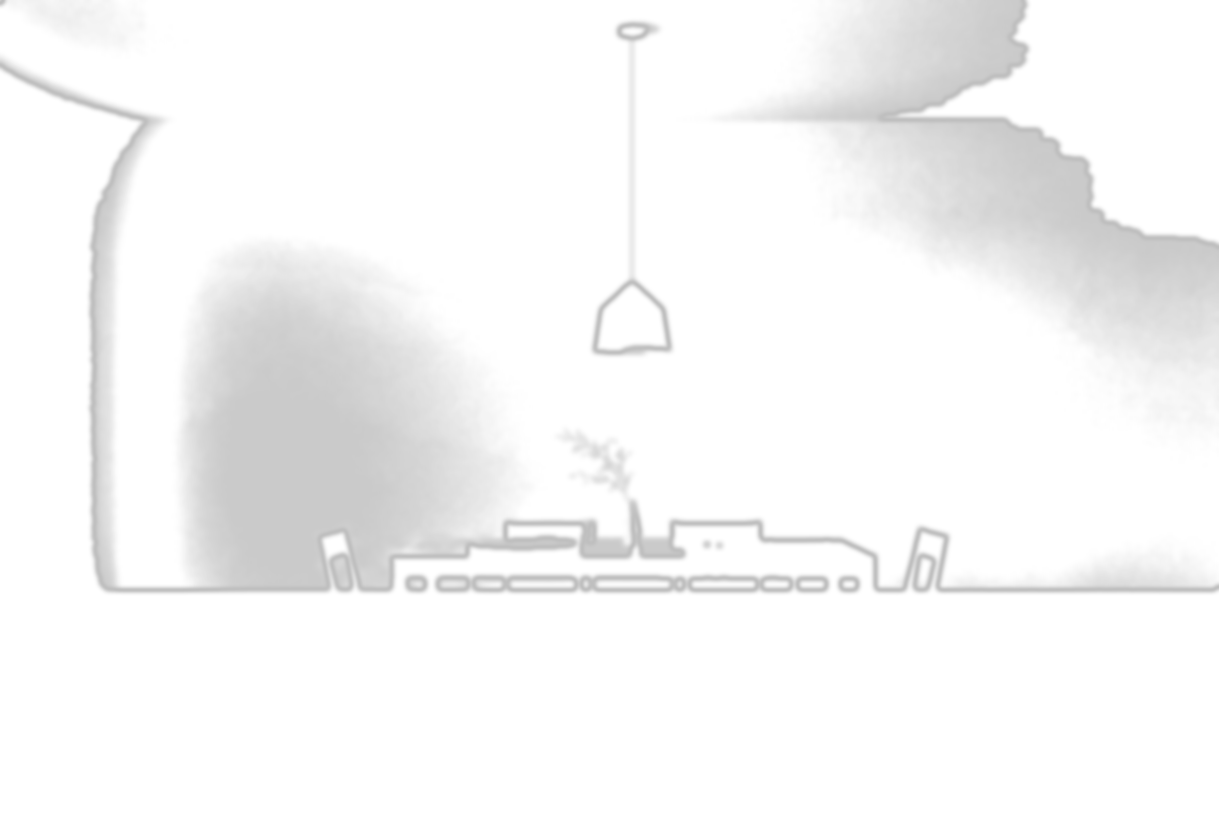
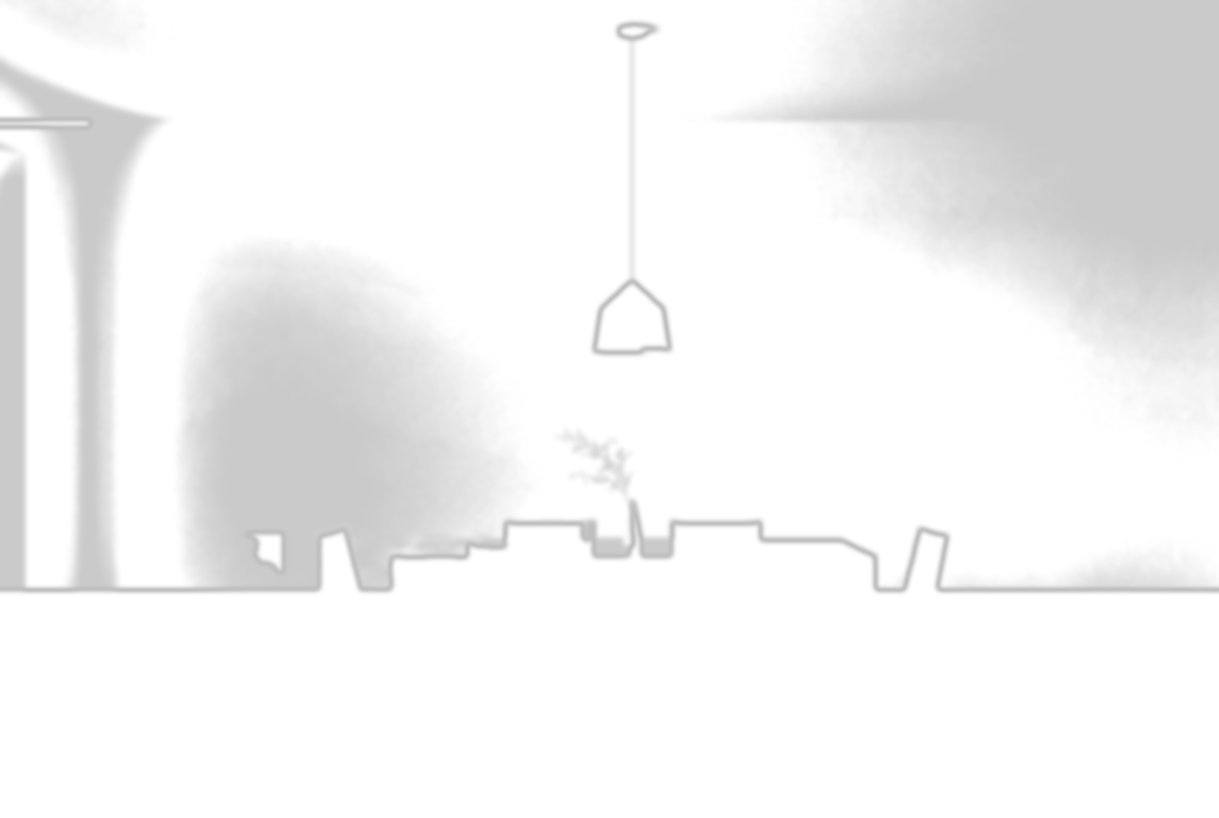
Visualiser masks: per-gap + edge sweep (room #1 verified)
Reworked the horizontal sweep so it can finally reach wall strips at
the image edges without bleeding across furniture:

- Per-gap sweep replaces the old leftmost→rightmost row fill. Each
  row now walks every gap between consecutive wall pixels; a gap is
  only filled when it's short (< 12% of image width — sofas/tables
  span much more) AND every pixel in it is loosely wall-coloured.
  Sofa cushion bleed gone; small bright wall patches still fill.

- Edge sweep extends the leftmost/rightmost wall pixel of each row
  out to the image edge while pixels stay wall-coloured. Catches
  wall strips beside windows and at the photo edges.

- Vertical edge sweep extends the topmost/bottommost wall pixel of
  each column toward the band limits, again gated by wall-colour.
  Catches the thin strip below window frames and the strip between
  ceiling and the top of the wall.

- Edge sweep uses a more permissive distance threshold (2.2× dist)
  than the per-gap sweep (1.5× dist) because shadows from frames
  and floor bounce darken edge pixels.

Room #1 (Modern living) tuned and verified: dist 54→60, floor
0.75→0.82. Wall now paints cleanly from ceiling to floor including
the strip above the window, beside the window, below the window and
the right corner near the fiddle-leaf plant. Sofa, lamp, plant and
window view all untouched.

Other rooms inherit the sweep changes for free; will audit them in
the next round.

diff --git a/images/rooms/_make_wall_masks.py b/images/rooms/_make_wall_masks.py
@@ -17,7 +17,7 @@ ROOMS_DIR = os.path.dirname(os.path.abspath(__file__))
 # curtains / tables / similar-coloured furniture) and rely on
 # binary_fill_holes downstream to plug interior holes. Tighter than v3.
 ROOMS = {
-    'room-living-modern':  dict(seed=(0.50, 0.20), dist=54, floor=0.75, top=0.00),
+    'room-living-modern':  dict(seed=(0.50, 0.20), dist=60, floor=0.82, top=0.00),
     'room-living-warm':    dict(seed=(0.55, 0.15), dist=58, floor=0.55, top=0.00),
     'room-bedroom-soft':   dict(seed=(0.30, 0.18), dist=95, floor=0.55, top=0.00),
     'room-bedroom-suite':  dict(seed=(0.70, 0.18), dist=70, floor=0.62, top=0.00),
@@ -97,28 +97,68 @@ def make_mask(im, p, slug):
             continue
         keep[hole_pixels] = True
 
-    # Horizontal sweep: above the floor line, plug gaps that are
-    # bracketed by wall pixels left-and-right in the same row — but
-    # ONLY for pixels that are at least loosely wall-coloured. This
-    # picks up sunlit/shadowed central wall patches (still close to
-    # the seed colour, just brighter/darker) without bleeding onto
-    # sofas, tables and lamps (which sit far from the seed colour).
-    loose_dist = p['dist'] * 1.8
+    # Per-gap horizontal sweep: walk each row above the floor line,
+    # and for every gap BETWEEN two consecutive wall pixels in that
+    # row, fill it only if (a) the gap is short (< 12% of image
+    # width — sofas/tables tend to span much more) and (b) every
+    # pixel in the gap is loosely wall-coloured. This catches
+    # sunlit/shadowed mid-wall patches and small fixtures while
+    # refusing to paint across furniture.
+    loose_dist = p['dist'] * 1.5
+    edge_dist  = p['dist'] * 2.2   # more permissive at the image edges
+                                   # (shadows from frames, floor bounce)
+    max_run = int(0.12 * w)
     for y in range(top_y, floor_y):
         row = keep[y]
         if not row.any(): continue
         xs = np.where(row)[0]
+        # Edge sweep — extend the leftmost wall pixel out to the image
+        # edge while pixels stay wall-coloured. Same on the right edge.
+        # Catches wall strips at the edge of the photo (above / below /
+        # beside windows) where the per-gap sweep can't help.
+        left = xs[0]
+        if left > 0:
+            run = dist[y, :left] <= edge_dist
+            i = left - 1
+            while i >= 0 and run[i]:
+                keep[y, i] = True
+                i -= 1
+        right = xs[-1]
+        if right < w - 1:
+            run = dist[y, right + 1:] <= edge_dist
+            i = 0
+            while i < len(run) and run[i]:
+                keep[y, right + 1 + i] = True
+                i += 1
         if len(xs) < 2: continue
-        left, right = xs[0], xs[-1]
-        coverage = row[left:right+1].sum() / (right - left + 1)
-        if coverage < 0.25: continue
-        # Within the span, fill only currently-empty pixels whose
-        # colour-distance from the seed is within the loose threshold.
-        span = slice(left, right + 1)
-        gap = ~row[span]
-        if not gap.any(): continue
-        wall_like = dist[y, span] <= loose_dist
-        keep[y, span] = row[span] | (gap & wall_like)
+        for i in range(len(xs) - 1):
+            a, b = xs[i], xs[i + 1]
+            gap_len = b - a - 1
+            if gap_len <= 0: continue
+            if gap_len > max_run: continue
+            if (dist[y, a + 1:b] <= loose_dist).all():
+                keep[y, a + 1:b] = True
+
+    # Vertical edge sweep: for each column, extend the wall down toward
+    # the floor line while pixels stay wall-coloured. Catches wall
+    # strips below window frames where the row-based sweep has no
+    # neighbouring wall pixel to extend from.
+    for x in range(w):
+        col = keep[:, x]
+        ys = np.where(col)[0]
+        if len(ys) == 0: continue
+        # Bottommost wall pixel — extend down toward floor_y
+        bot = ys[-1]
+        i = bot + 1
+        while i < floor_y and dist[i, x] <= edge_dist:
+            keep[i, x] = True
+            i += 1
+        # Topmost wall pixel — extend up toward top_y
+        top = ys[0]
+        i = top - 1
+        while i >= top_y and dist[i, x] <= edge_dist:
+            keep[i, x] = True
+            i -= 1
 
     # Slightly dilate the final mask so soft edges blend cleanly past
     # the wall boundary instead of stopping a pixel short.
